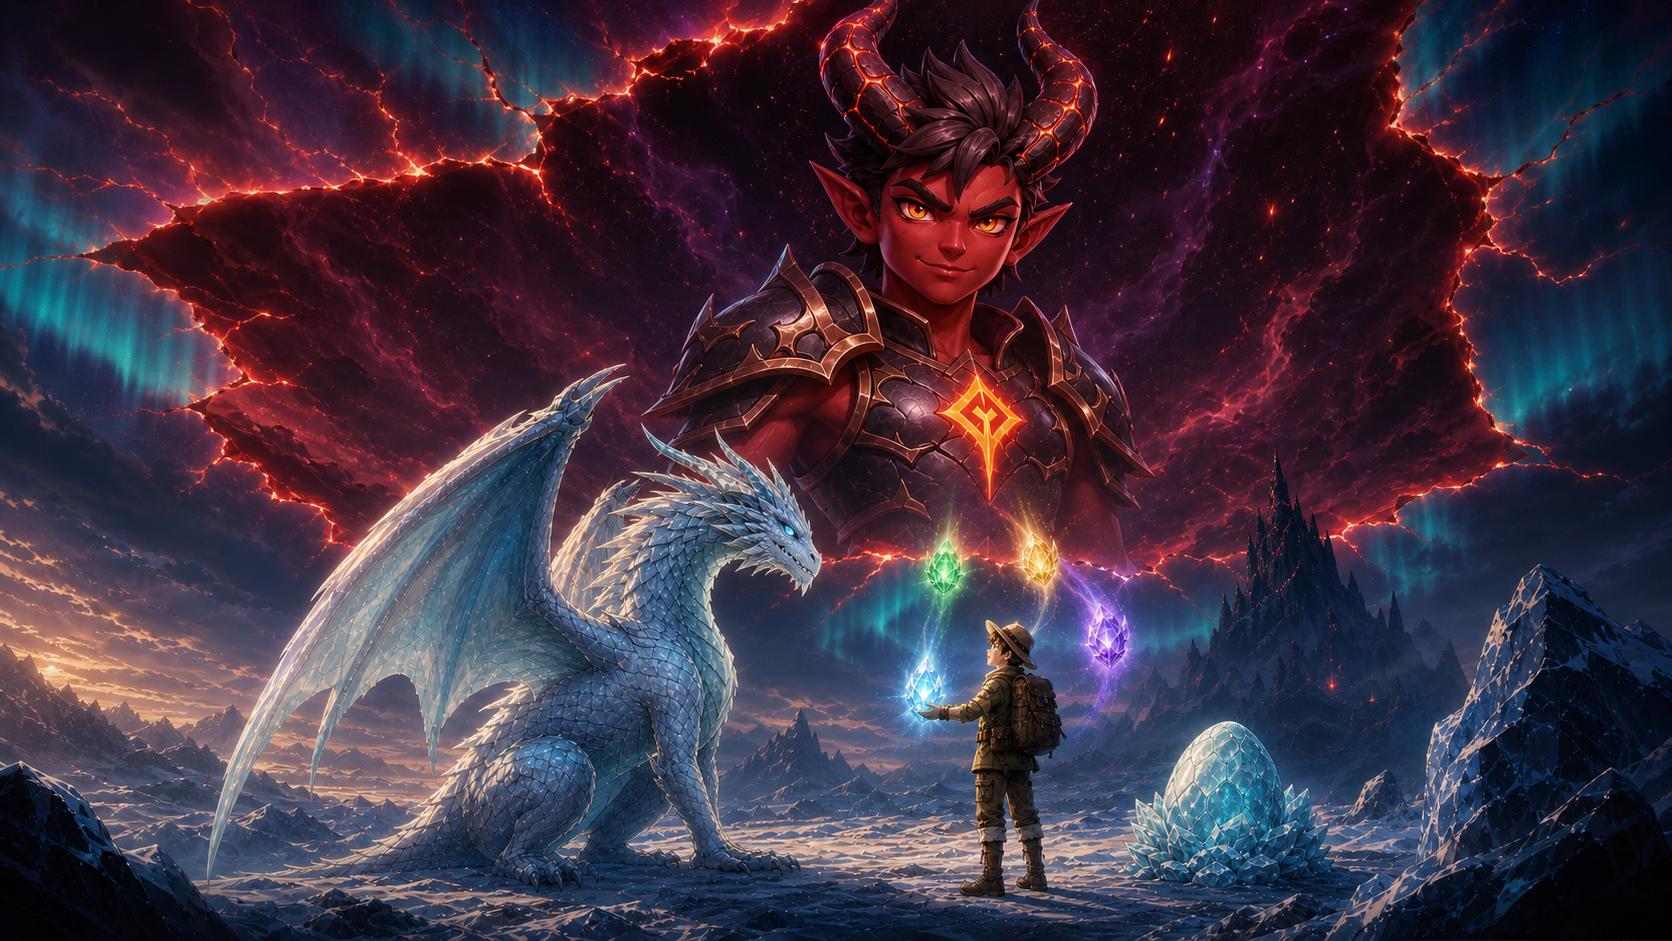
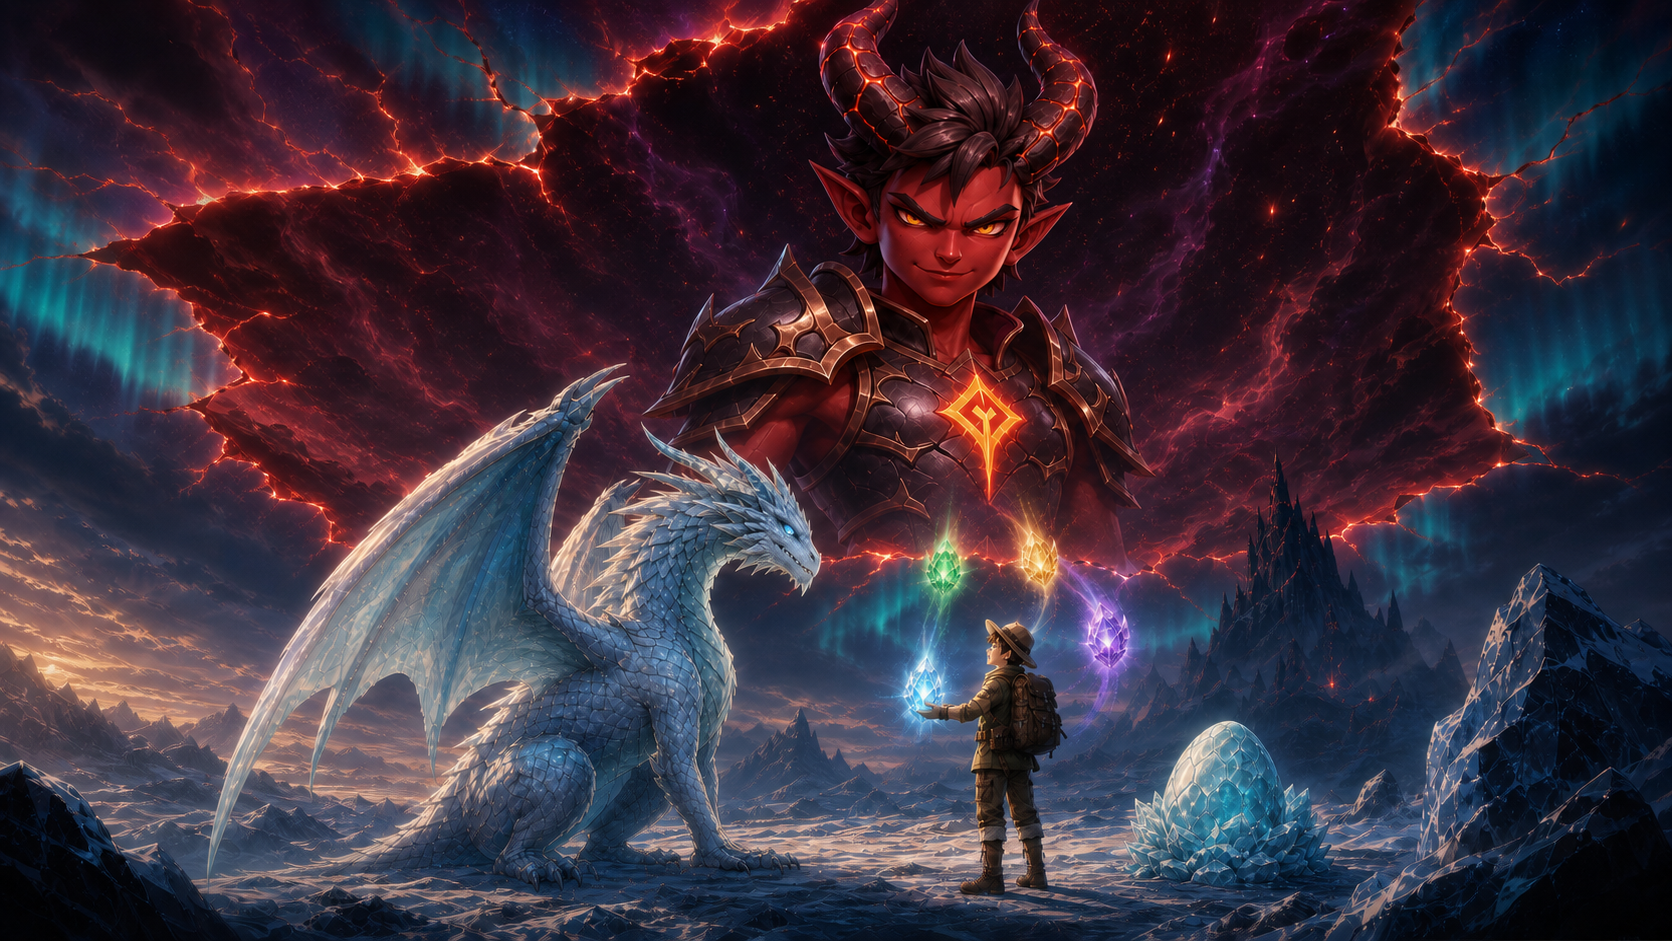
Refuerza la mirada de Azrak y ralentiza la cinematica

diff --git a/sw.js b/sw.js
@@ -1,6 +1,7 @@
 const CACHE_PREFIX = "aventura-palabras-runtime-";
-const CACHE_NAME = `${CACHE_PREFIX}v223`;
+const CACHE_NAME = `${CACHE_PREFIX}v224`;
 const LEGACY_CACHE_NAMES = new Set([
+  `${CACHE_PREFIX}v223`,
   `${CACHE_PREFIX}v222`,
   `${CACHE_PREFIX}v221`,
   `${CACHE_PREFIX}v220`,
@@ -492,7 +493,7 @@ const ASSET_REVISIONS = {
   "./": "20260831-laberinto-hielo-7",
   "./index.html": "20260831-laberinto-hielo-7",
   "./css/styles.css": "20260904-portal-azrak-1",
-  "./js/app.js": "20260904-portal-azrak-1",
+  "./js/app.js": "20260904-azrak-mirada-2",
   "./assets/images/personajes/versus/t-shadow-base.png": "20260902-personajes-chibi-1",
   "./assets/images/personajes/versus/t-shadow-ataque.png": "20260902-personajes-chibi-1",
   "./assets/images/personajes/versus/t-shadow-impacto.png": "20260902-personajes-chibi-1",
@@ -560,7 +561,7 @@ const ASSET_REVISIONS = {
   "./assets/images/cinematicas/mundo-hielo/03-nivor-entrega-cristal-v1.png": "20260831-mundo-hielo-1",
   "./assets/images/cinematicas/mundo-hielo/04-nivor-arrepentido-v1.png": "20260904-portal-azrak-1",
   "./assets/images/cinematicas/mundo-hielo/05-cristales-abren-grieta-v1.png": "20260904-portal-azrak-1",
-  "./assets/images/cinematicas/mundo-hielo/06-azrak-en-la-grieta-v1.png": "20260904-portal-azrak-1",
+  "./assets/images/cinematicas/mundo-hielo/06-azrak-en-la-grieta-v1.png": "20260904-azrak-mirada-2",
   "./assets/images/cinematicas/mundo-hielo/07-nivor-desafia-grieta-v1.png": "20260904-portal-azrak-1",
   "./assets/images/cinematicas/mundo-hielo/08-portal-mundo-cinco-v1.png": "20260904-portal-azrak-1",
   "./assets/images/cinematicas/mundo-hielo/primer-duelo/01-nivor-reconoce-derrota-v1.png": "20260904-nivor-retirada-1",

diff --git a/index.html b/index.html
@@ -1455,7 +1455,7 @@
     <script src="js/versus-room.js?v=20260805-salas-versus-1"></script>
     <script src="js/versus-room-supabase.js?v=20260817-auth-cuentas-2"></script>
     <script src="js/adventure-puzzles.js?v=20260827-puzzles-cumbres-1"></script>
-    <script src="js/app.js?v=20260904-portal-azrak-1"></script>
+    <script src="js/app.js?v=20260904-azrak-mirada-2"></script>
     <script src="js/pwa.js?v=20260827-modos-locales-offline-1"></script>
 </body>
 

diff --git a/js/app.js b/js/app.js
@@ -5658,7 +5658,7 @@ async function reproducirCinematicaFinalHielo() {
     } else {
       capa.classList.remove("cambiando-plano");
     }
-    for (let tiempo = 0; tiempo < (prefiereReducirMovimiento.matches ? 1200 : 5600) && !saltar; tiempo += 200) {
+    for (let tiempo = 0; tiempo < (prefiereReducirMovimiento.matches ? 1200 : 8200) && !saltar; tiempo += 200) {
       await new Promise((resolver) => window.setTimeout(resolver, 200));
     }
   }
